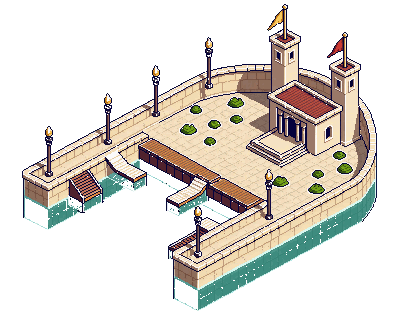
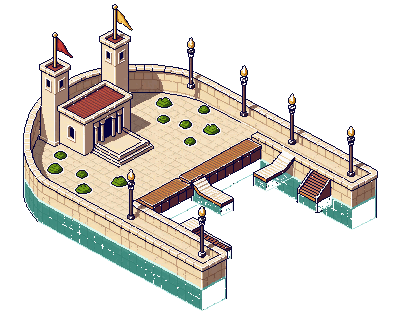
Reduce harbor cap from 10 to 8; drop aptos, mantle, hyperliquid
MAX_CHAIN_HARBORS drops to 8 to keep the outer harbor ring visually uncluttered
now that EVM bay holds five dedicated-sprite chains. Aptos, mantle, and hyperliquid
fall below the cut; outer dock tile positions are rebalanced so Tron anchors the
north shelf rather than a second southwest slot.

diff --git a/src/systems/chain-docks.test.ts b/src/systems/chain-docks.test.ts
@@ -68,19 +68,19 @@ describe("buildChainDocks", () => {
     expect(docks.find((dock) => dock.chainId === "arbitrum")?.assetId).toBe("dock.arbitrum-arch-bridge");
     expect(docks.find((dock) => dock.chainId === "optimism")?.assetId).toBe("dock.optimism-sunrise-beacon");
     expect(docks.find((dock) => dock.chainId === "polygon")?.assetId).toBe("dock.polygon-hexmarket");
-    expect(docks.find((dock) => dock.chainId === "mantle")?.assetId).toBe("dock.wooden-pier");
     expect(docks.find((dock) => dock.chainId === "ethereum")?.logoSrc).toBe("/chains/ethereum.png");
     expect(docks.find((dock) => dock.chainId === "base")?.logoSrc).toBe("/chains/base.png");
     expect(docks.find((dock) => dock.chainId === "tron")?.logoSrc).toBeNull();
     expect(byChain.get("bsc")).toEqual(PREFERRED_DOCK_TILES.bsc);
     expect(byChain.get("tron")).toEqual(PREFERRED_DOCK_TILES.tron);
     expect(byChain.get("solana")).toEqual(PREFERRED_DOCK_TILES.solana);
-    expect(byChain.get("aptos")).toEqual(PREFERRED_DOCK_TILES.aptos);
+    expect(docks.map((dock) => dock.chainId)).not.toContain("aptos");
+    expect(docks.map((dock) => dock.chainId)).not.toContain("mantle");
 
     for (const chainId of ["ethereum", "base", "arbitrum", "optimism", "polygon"]) {
       expect(EVM_BAY_DOCK_TILES).toContainEqual(byChain.get(chainId));
     }
-    for (const chainId of ["bsc", "tron", "solana", "aptos", "mantle"]) {
+    for (const chainId of ["bsc", "tron", "solana"]) {
       expect(EVM_BAY_DOCK_TILES).not.toContainEqual(byChain.get(chainId));
       expect(OUTER_HARBOR_DOCK_TILES).toContainEqual(byChain.get(chainId));
     }
@@ -108,19 +108,19 @@ describe("buildChainDocks", () => {
       globalTotalUsd: 586,
     });
 
-    expect(docks).toHaveLength(10);
+    expect(docks).toHaveLength(8);
     expect(docks.map((dock) => dock.chainId)).toEqual([
       "ethereum",
       "tron",
       "bsc",
       "solana",
-      "hyperliquid",
       "base",
       "arbitrum",
       "polygon",
-      "aptos",
       "optimism",
     ]);
+    expect(docks.map((dock) => dock.chainId)).not.toContain("hyperliquid");
+    expect(docks.map((dock) => dock.chainId)).not.toContain("aptos");
     expect(docks.map((dock) => dock.chainId)).not.toContain("avalanche");
     expect(docks.map((dock) => dock.chainId)).not.toContain("xlayer");
     expect(docks.map((dock) => dock.chainId)).not.toContain("mantle");
@@ -145,7 +145,7 @@ describe("buildChainDocks", () => {
     expect(docks.find((dock) => dock.chainId === "small")?.size).toBe(1);
   });
 
-  it("emits only the top ten chain harbors and preserves top stablecoin cargo", () => {
+  it("emits only the top eight chain harbors and preserves top stablecoin cargo", () => {
     const chains = Array.from({ length: 12 }, (_, index) => makeChain({
       id: `chain-${index}`,
       totalUsd: 12_000_000_000 - index * 1_000_000_000,
@@ -161,7 +161,7 @@ describe("buildChainDocks", () => {
       globalTotalUsd: 78_000_000_000,
     });
 
-    expect(docks).toHaveLength(10);
+    expect(docks).toHaveLength(8);
     expect(docks.map((dock) => dock.chainId)).toEqual([
       "chain-0",
       "chain-1",
@@ -171,11 +171,9 @@ describe("buildChainDocks", () => {
       "chain-5",
       "chain-6",
       "chain-7",
-      "chain-8",
-      "chain-9",
     ]);
-    expect(docks.map((dock) => dock.tile)).toEqual(OUTER_HARBOR_DOCK_TILES.slice(0, 10));
-    expect(docks.map((dock) => dock.assetId)).toEqual(Array(10).fill("dock.wooden-pier"));
+    expect(docks.map((dock) => dock.tile)).toEqual(OUTER_HARBOR_DOCK_TILES.slice(0, 8));
+    expect(docks.map((dock) => dock.assetId)).toEqual(Array(8).fill("dock.wooden-pier"));
     expect(docks[0]?.harboredStablecoins.map((coin) => coin.symbol)).toEqual(["A0", "B0"]);
   });
 });

diff --git a/tests/visual/pharosville.spec.ts b/tests/visual/pharosville.spec.ts
@@ -334,7 +334,7 @@ test("pharosville dense visual fixture preserves districts, dense ships, and ren
   const visibleMotionSamples = motionSamples.filter((sample) => sample.mapVisible);
   const hiddenMooredSamples = motionSamples.filter((sample) => !sample.mapVisible && sample.state === "moored");
   const ledgerRouteStopSamples = motionSamples.filter((sample) => sample.currentRouteStopKind === "ledger");
-  expect(targets.filter((target) => target.kind === "dock")).toHaveLength(10);
+  expect(targets.filter((target) => target.kind === "dock")).toHaveLength(8);
   expect(targets.filter((target) => target.kind === "ship")).toHaveLength(visibleMotionSamples.length);
   expect(visibleMotionSamples.length).toBeLessThan(denseFixtureShipCount);
   expect(hiddenMooredSamples.length).toBeGreaterThan(0);

diff --git a/src/systems/world-layout.ts b/src/systems/world-layout.ts
@@ -33,9 +33,10 @@ export const EVM_BAY_DOCK_TILES = [
 
 // Outer harbors wrap the north, west, south, and east coasts so the
 // island reads as a single inhabited harbor ring rather than a dock staircase.
+// Tron anchors the north shelf to balance the southwest cluster.
 export const OUTER_HARBOR_DOCK_TILES = [
   { x: 20, y: 35 },
-  { x: 23, y: 37 },
+  { x: 22, y: 22 },
   { x: 30, y: 21 },
   { x: 40, y: 22 },
   { x: 33, y: 41 },

diff --git a/src/systems/chain-docks.ts b/src/systems/chain-docks.ts
@@ -9,7 +9,7 @@ import {
   PREFERRED_DOCK_TILES,
 } from "./world-layout";
 
-export const MAX_CHAIN_HARBORS = 10;
+export const MAX_CHAIN_HARBORS = 8;
 export const MAX_DOCK_SIZE = 10;
 
 const DOCK_ASSET_IDS = [
